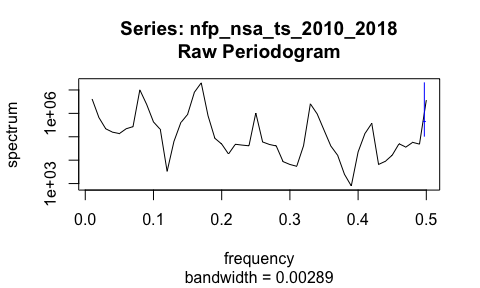
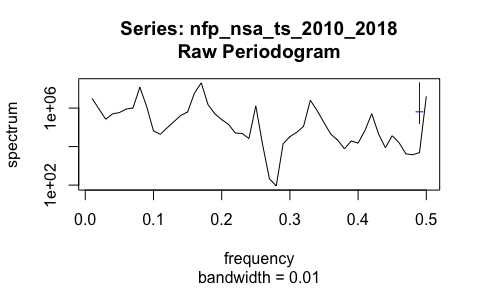
updating md files

diff --git a/project-nfp-forecasting.md b/project-nfp-forecasting.md
@@ -1,11 +1,12 @@
-# NFP Forecasting
+# Project NFP - Forecasting
 Sam Choi, Eric Xu  
 <!-- Don't edit in between this line and the one below -->
 
 *Source file* 
[2 lines of base64/hex data omitted]
+
 #### Objective
-Using data from January 2010 to March 2017, we aim to forecast Nonfarm payrolls for the following year (April 2017 to March 2018).
+Using data from January 2010 to March 2017, we aim to forecast Nonfarm payrolls for the following 12 months (April 2017 to March 2018).  
 <br>
 
 #### SA (PAYEMS) and NSA (PAYNSA) NFP Data
@@ -18,8 +19,8 @@ nfp_nsa_ts <- ts(PAYNSA[2])
 ```
 
 #### Splitting the dataset
-Training: January 2010 - March 2017
-Testing: April 2017 - March 2018
+Training: January 2010 - March 2017  
+Testing: April 2017 - March 2018  
 
 ```r
 nfp_sa_training_ts <- ts(PAYEMS[853:939,][2])

diff --git a/project-nfp-spectral.md b/project-nfp-spectral.md
@@ -6,7 +6,7 @@ Sam Choi, Eric Xu
 
 ## Spectral Analysis
 
-We aim to use spectral analysis to find the key frequencies of variation in the non-seasonally adjusted NFP time series. We begin our spectral analysis by estimating the spectral density using a raw periodogram.
+We aim to use spectral analysis to find the key frequencies of variation in the non-seasonally adjusted NFP time series. We begin our spectral analysis by detrending the spectral density using a first difference and estimating the spectral density of the detrended time series using a raw periodogram.
 
 
 ```r
@@ -18,9 +18,55 @@ plot.ts(nfp_nsa_ts_2010_2018, main = "Non Seasonally Adjusted NFP Data")
 ![](project-nfp-spectral_files/figure-html/periodogram-1.png)<!-- -->
 
 ```r
-spec.pgram(nfp_nsa_ts_2010_2018)
+mvspec(nfp_nsa_ts_2010_2018)
 ```
 
 ![](project-nfp-spectral_files/figure-html/periodogram-2.png)<!-- -->
 
-Now we use a smoothed periodogram with various parameters to find a better estimate of the spectral density.
+```r
+detrend <- diff(nfp_nsa_ts_2010_2018)
+plot.ts(detrend)
+```
+
+![](project-nfp-spectral_files/figure-html/periodogram-3.png)<!-- -->
+
+```r
+mvspec(detrend, detrend = FALSE)
+```
+
+![](project-nfp-spectral_files/figure-html/periodogram-4.png)<!-- -->
+
+The raw periodogram shows 5 major peaks corresponding to cycles of approximately 12 months, 6 months, 4 months, 3 months, and 2.5 months.
+
+Now we use a smoothed periodogram with various parameters to find a better estimate of the spectral density. First we use a daniell kernel with m = 4.
+
+
+```r
+k = kernel("daniell", 4)
+mvspec(nfp_nsa_ts_2010_2018, k, log="no")
+```
+
+![](project-nfp-spectral_files/figure-html/smooth-1.png)<!-- -->
+
+```r
+mvspec(detrend, k, log="no")
+```
+
+![](project-nfp-spectral_files/figure-html/smooth-2.png)<!-- -->
+
+The smoothed periodgram shows the greatest variance in the 0.13 to 0.21 frequency range, which corresponds to one cycle every 5-7 months, or a semiannual cycle. There is also a smaller peak at 0.46, corresponding to a cycle every 2 months, and a third peak at 0.29 to 0.37, corresponding to a cycle every 2.7-3.4 months, or a quarterly cycle.
+
+Now we use a danielle kernel.
+
+
+```r
+mvspec(nfp_nsa_ts_2010_2018, k, log="no", taper = 0.1)
+```
+
+![](project-nfp-spectral_files/figure-html/taper-1.png)<!-- -->
+
+```r
+mvspec(detrend, k, log="no", taper = 0.1)
+```
+
+![](project-nfp-spectral_files/figure-html/taper-2.png)<!-- -->
